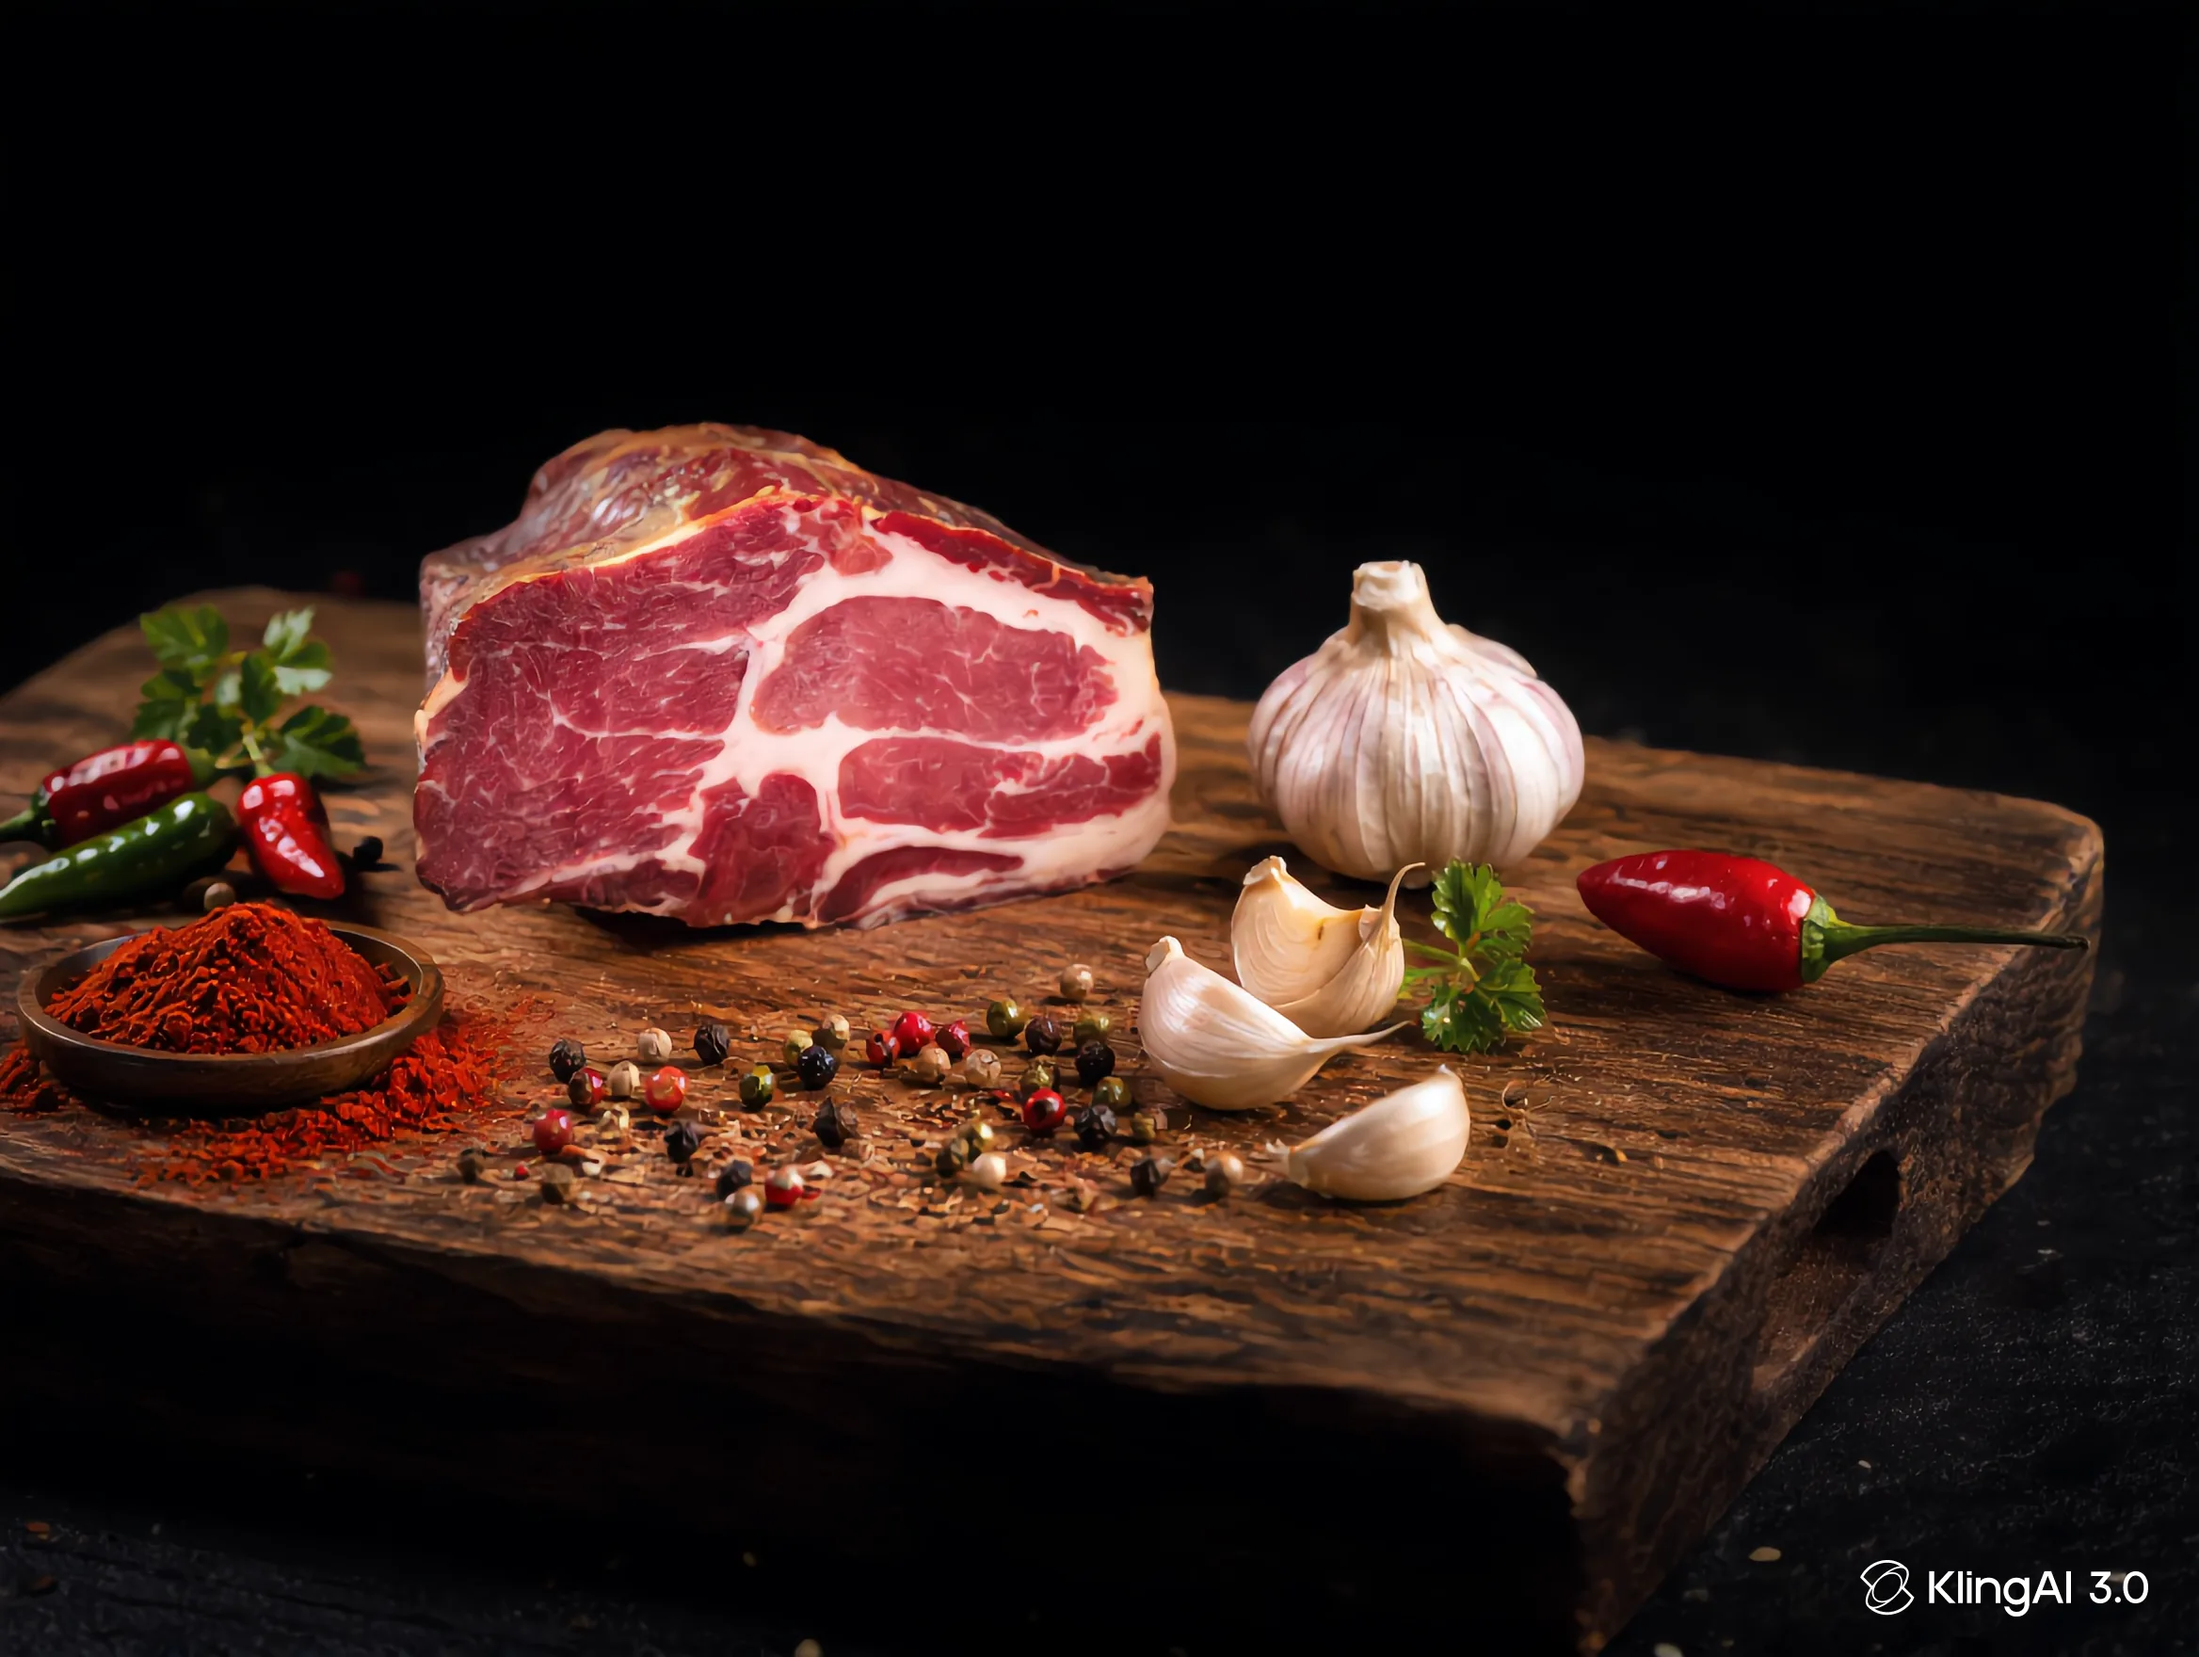
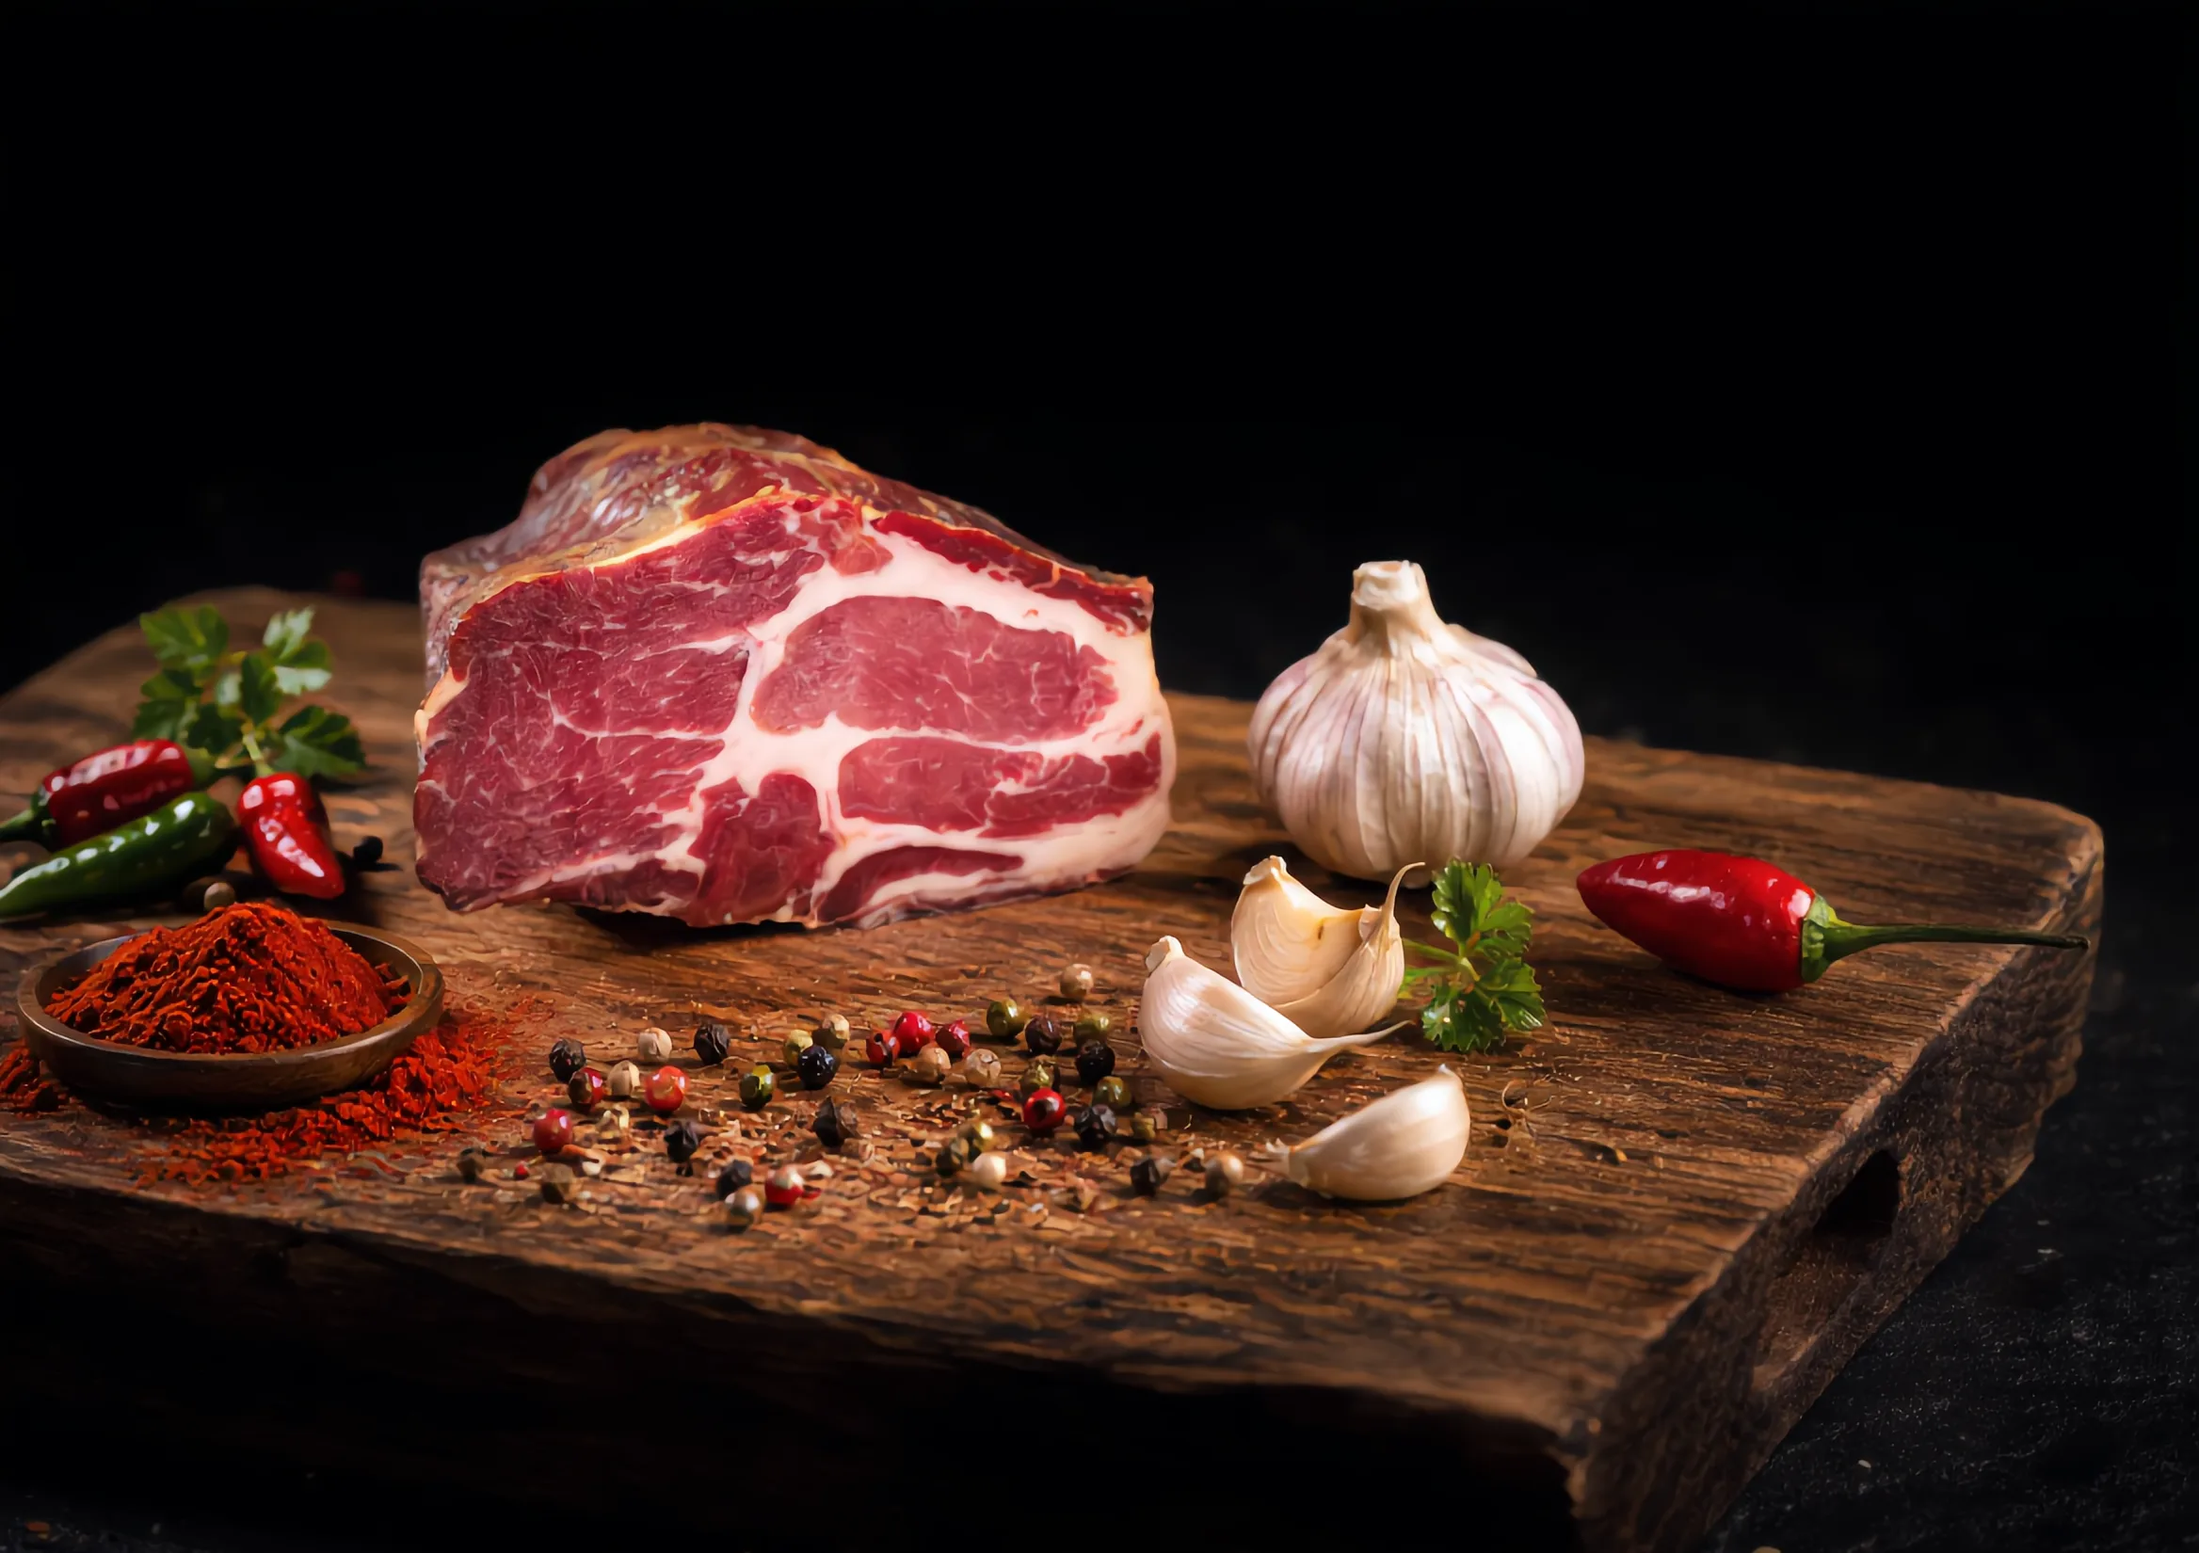
fix: ukloni watermark iz slika cropajem, makni CSS zoom
Sve slike proizvoda: crop 110px s dna (uklanja KlingAI watermark).
CSS: maknut scale(1.18) zoom koji je krio presjek seke i ostalo.
kulin_visi deko slika smanjena na 340px.

diff --git a/src/components/sections/Products.module.css b/src/components/sections/Products.module.css
@@ -52,12 +52,11 @@
   height: 100%;
   object-fit: cover;
   display: block;
-  transform: scale(1.18);
   transition: transform 0.5s ease;
 }
 
 .card:hover .img {
-  transform: scale(1.24);
+  transform: scale(1.05);
 }
 
 /* Placeholder */

diff --git a/src/components/sections/KulinInfo.module.css b/src/components/sections/KulinInfo.module.css
@@ -17,8 +17,8 @@
   position: absolute;
   right: -40px;
   top: -16px;
-  width: 460px;
-  max-width: 46%;
+  width: 340px;
+  max-width: 36%;
   height: auto;
   opacity: 0.22;
   pointer-events: none;
